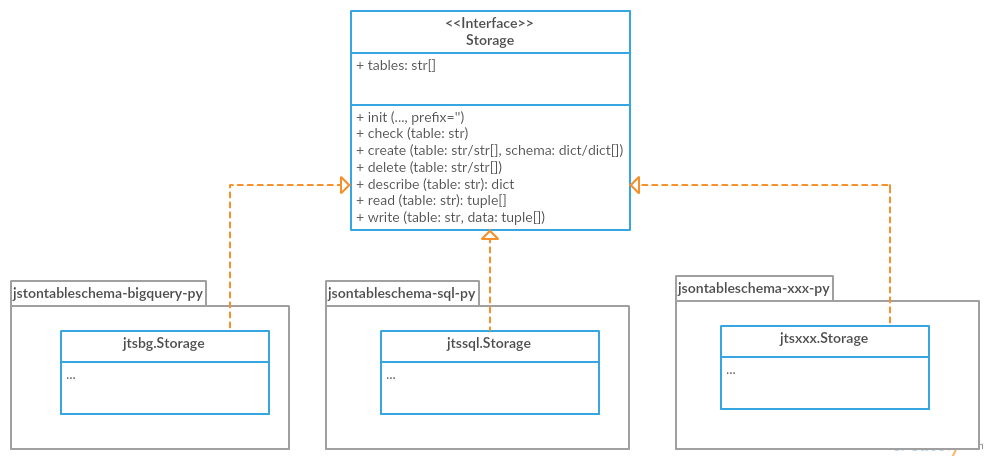
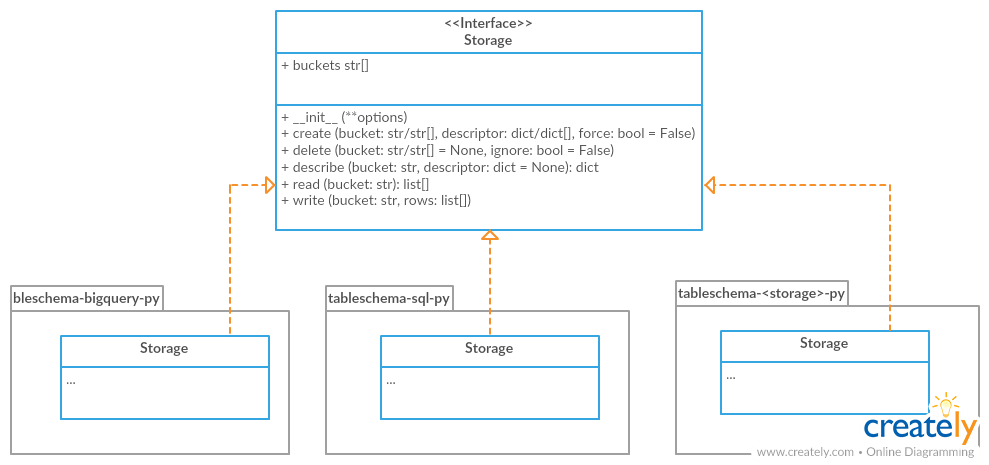
Updated Storage API readme (fixes #136)

diff --git a/tableschema/storage.py b/tableschema/storage.py
@@ -12,114 +12,54 @@ from abc import ABCMeta, abstractmethod
 
 @add_metaclass(ABCMeta)
 class Storage(object):
-    """Tabular Storage interface.
-
-    Concrete backends shouldn't inherit from this base class
-    to simplify maintenance. Just use as a reference.
-
-    Args:
-        options (dict): concrete backend options
-
-    """
 
     # Public
 
     @abstractmethod
     def __init__(self, **options):
+        """https://github.com/frictionlessdata/tableschema-py#storage
+        """
         pass
 
     @property
+    @abstractmethod
     def buckets(self):
-        """str[]: list of buckets.
-
-        This list should be sorted in order of foreign key dependency.
-        (direct order for creation and reverse order for deletion)
-
+        """https://github.com/frictionlessdata/tableschema-py#storage
         """
         pass
 
     @abstractmethod
     def create(self, bucket, descriptor, force=False):
-        """Create one/few buckets.
-
-        Args:
-            bucket (str/list): bucket name or list of bucket names
-            descriptor (dict/dict[]): schema descriptor or list of descriptors
-            force (bool): delete and re-create already existent buckets
-
-        Raises:
-            StorageError: if table already exists.
-
+        """https://github.com/frictionlessdata/tableschema-py#storage
         """
         pass
 
+    @abstractmethod
     def delete(self, bucket=None, ignore=False):
-        """Delete one/few/all bucket(s).
-
-        Args:
-            bucket (str/list/None): bucket name or list of bucket
-                names to delete. If None all buckets will be deleted.
-            ignore (bool): don't raise an error on non-existent bucket
-                deletion from storage
-
-        Raises:
-            StorageError: if table doesn't exist and ignore is False
-
+        """https://github.com/frictionlessdata/tableschema-py#storage
         """
         pass
 
+    @abstractmethod
     def describe(self, bucket, descriptor=None):
-        """Get/set bucket's schema descriptor.
-
-        Args:
-            table (str): bucket name
-            schema (dict): schema descriptor to set
-
-        Returns:
-            dict: bucket's schema descriptor
-
+        """https://github.com/frictionlessdata/tableschema-py#storage
         """
         pass
 
+    @abstractmethod
     def iter(self, bucket):
-        """Yields bucket rows.
-
-        This method should return typed values
-        based on the schema of this buckets.
-
-        Args:
-            bucket (str): bucket name
-
-        Yields:
-            list: bucket row
-
+        """https://github.com/frictionlessdata/tableschema-py#storage
         """
         pass
 
+    @abstractmethod
     def read(self, bucket):
-        """Read rows from bucket.
-
-        This method should return typed values
-        based on the schema of this buckets.
-
-        Args:
-            bucket (str): bucket name
-
-        Returns:
-            list[]: bucket rows
-
+        """https://github.com/frictionlessdata/tableschema-py#storage
         """
         pass
 
+    @abstractmethod
     def write(self, bucket, rows):
-        """Write rows to bucket.
-
-        This method should store values of unsupported
-        types as strings internally (like csv does).
-
-        Args:
-            bucket (str): bucket name
-            rows (list[]): rows to write
-
+        """https://github.com/frictionlessdata/tableschema-py#storage
         """
         pass

diff --git a/README.md b/README.md
@@ -582,17 +582,79 @@ All storage errors.
 
 ### Storage
 
-> It's a provisional API excluded from SemVer. If you use it as a part of other program please pin concrete `tableschema` version to your requirements file.
+The library includes interface declaration to implement tabular `Storage`. This interface allow to use different data storage systems like SQL with `tableschema.Table` class (load/save) as well as on the data package level:
 
-The library includes interface declaration to implement tabular `Storage`:
+![Storage](https://raw.githubusercontent.com/frictionlessdata/tableschema-py/master/data/storage.png)
 
-![Storage](data/storage.png)
+An implementor should follow `tableschema.Storage` interface to write his own storage backend. Concrete storage backends could include additional functionality specific to conrete storage system. See `plugins` system below to know how to integrate custom storage plugin into your workflow.
 
-An implementor should follow `tableschema.Storage` interface to write his own storage backend. This backend could be used with `Table` class. See `plugins` system below to know how to integrate custom storage plugin.
+#### `<<Interface>>Storage(**options)`
+
+Create tabular `storage`. Implementations should fully implement this interface to be compatible to `Storage` API.
+
+- `options (dict)` - concrete backend options
+- `(exceptions.StorageError)` - raises on any error
+- `(Storage)` - returns `Storage` instance
+
+#### `storage.buckets`
+
+Return list of storage bucket names. A `bucket` is a special term which has almost the same meaning as the term `table`. You should consider `bucket` as a `table` stored in the `storage`.
+
+- `(exceptions.StorageError)` - raises on any error
+- `str[]` - return list of bucket names
+
+#### `create(bucket, descriptor, force=False)`
+
+Create one/multiple buckets.
+
+- `bucket (str/list)` - bucket name or list of bucket names
+- `descriptor (dict/dict[])` - schema descriptor or list of descriptors
+- `force (bool)` - delete and re-create already existent buckets
+- `(exceptions.StorageError)` - raises on any error
+
+#### `delete(bucket=None, ignore=False)`
+
+Delete one/multiple/all buckets.
+
+- `bucket (str/list/None)` - bucket name or list of bucket names to delete. If None all buckets will be deleted
+- `descriptor (dict/dict[])` - schema descriptor or list of descriptors
+- `ignore (bool)` - don't raise an error on non-existent bucket deletion from storage
+- `(exceptions.StorageError)` - raises on any error
+
+#### `describe(bucket, descriptor=None)`
+
+Get/set bucket's Table Schema descriptor.
+
+- `bucket (str)` - bucket name
+- `descriptor (dict/None)` - schema descriptor to set
+- `(exceptions.StorageError)` - raises on any error
+- `(dict)` - returns Table Schema descriptor
+
+#### `iter(bucket)`
+
+This method should iter typed values based on the schema of this bucket.
+
+- `bucket (str)` - bucket name
+- `(exceptions.StorageError)` - raises on any error
+- `(list[])` - yields data rows
+
+#### `read(bucket)`
+
+This method should read typed values based on the schema of this bucket.
+
+- `bucket (str)` - bucket name
+- `(exceptions.StorageError)` - raises on any error
+- `(list[])` - returns data rows
+
+#### `write(bucket, rows)`
+
+This method writes data rows into the `storage`. It should store values of unsupported types as strings internally (like csv does).
+
+- `bucket (str)` - bucket name
+- `rows (list[])` - data rows to write
+- `(exceptions.StorageError)` - raises on any error
 
 ### Plugins
-
-> It's a provisional API excluded from SemVer. If you use it as a part of other program please pin concrete `tableschema` version to your requirements file.
 
 Table Schema has a plugin system.  Any package with the name like `tableschema_<name>` could be imported as:
 
@@ -602,10 +664,13 @@ from tableschema.plugins import <name>
 
 If a plugin is not installed `ImportError` will be raised with a message describing how to install the plugin.
 
-A list of officially supported plugins:
-- BigQuery Storage - https://github.com/frictionlessdata/tableschema-bigquery-py
-- Pandas Storage - https://github.com/frictionlessdata/tableschema-pandas-py
-- SQL Storage - https://github.com/frictionlessdata/tableschema-sql-py
+#### Official plugins
+
+- [BigQuery Storage](https://github.com/frictionlessdata/tableschema-bigquery-py)
+- [Elasticsearch Storage](https://github.com/frictionlessdata/tableschema-elasticsearch-py)
+- [Pandas Storage](https://github.com/frictionlessdata/tableschema-pandas-py)
+- [SQL Storageh](ttps://github.com/frictionlessdata/tableschema-sql-py)
+- [SPSS Storage](https://github.com/frictionlessdata/tableschema-spss-py)
 
 ### CLI
 
